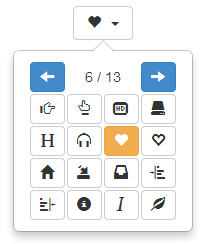
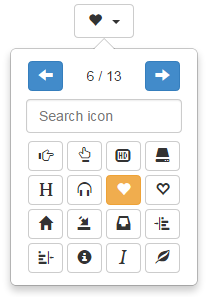
Add search field.

Changed region(s): [[0.0288, 0.0, 0.9519, 0.9754]]

diff --git a/bootstrap-iconpicker/js/bootstrap-iconpicker.min.js b/bootstrap-iconpicker/js/bootstrap-iconpicker.min.js
@@ -1,5 +1,5 @@
 /* ========================================================================
- * Bootstrap: bootstrap-iconpicker.js v1.4.0 by @recktoner
+ * Bootstrap: bootstrap-iconpicker.js v1.5.0 by @recktoner
  * https://victor-valencia.github.com/bootstrap-iconpicker
  * ========================================================================
  * Copyright 2013-2014 Victor Valencia Rico.
@@ -16,4 +16,4 @@
  * See the License for the specific language governing permissions and
  * limitations under the License.
  * ======================================================================== */
-+function(e){"use strict";var t=function(n,r){this.$element=e(n);this.options=e.extend({},t.DEFAULTS,this.$element.data());this.options=e.extend({},this.options,r)};t.ICONSET={glyphicon:["adjust","align-center","align-justify","align-left","align-right","arrow-down","arrow-left","arrow-right","arrow-up","asterisk","backward","ban-circle","barcode","bell","bold","book","bookmark","briefcase","bullhorn","calendar","camera","certificate","check","chevron-down","chevron-left","chevron-right","chevron-up","circle-arrow-down","circle-arrow-left","circle-arrow-right","circle-arrow-up","cloud","cloud-download","cloud-upload","cog","collapse-down","collapse-up","comment","compressed","copyright-mark","credit-card","cutlery","dashboard","download","download-alt","earphone","edit","eject","envelope","euro","exclamation-sign","expand","export","eye-close","eye-open","facetime-video","fast-backward","fast-forward","file","film","filter","fire","flag","flash","floppy-disk","floppy-open","floppy-remove","floppy-save","floppy-saved","folder-close","folder-open","font","forward","fullscreen","gbp","gift","glass","globe","hand-down","hand-left","hand-right","hand-up","hd-video","hdd","header","headphones","heart","heart-empty","home","import","inbox","indent-left","indent-right","info-sign","italic","leaf","link","list","list-alt","lock","log-in","log-out","magnet","map-marker","minus","minus-sign","move","music","new-window","off","ok","ok-circle","ok-sign","open","paperclip","pause","pencil","phone","phone-alt","picture","plane","play","play-circle","plus","plus-sign","print","pushpin","qrcode","question-sign","random","record","refresh","registration-mark","remove","remove-circle","remove-sign","repeat","resize-full","resize-horizontal","resize-small","resize-vertical","retweet","road","save","saved","screenshot","sd-video","search","send","share","share-alt","shopping-cart","signal","sort","sort-by-alphabet","sort-by-alphabet-alt","sort-by-attributes","sort-by-attributes-alt","sort-by-order","sort-by-order-alt","sound-5-1","sound-6-1","sound-7-1","sound-dolby","sound-stereo","star","star-empty","stats","step-backward","step-forward","stop","subtitles","tag","tags","tasks","text-height","text-width","th","th-large","th-list","thumbs-down","thumbs-up","time","tint","tower","transfer","trash","tree-conifer","tree-deciduous","unchecked","upload","usd","user","volume-down","volume-off","volume-up","warning-sign","wrench","zoom-in","zoom-out"],fa:e.fontawesome||[]};t.DEFAULTS={iconset:"glyphicon",icon:"",rows:4,cols:4,placement:"bottom",arrowClass:"btn-primary",selectedClass:"btn-warning",unselectedClass:"btn-default"};t.prototype.createButtonBar=function(){var t=this.options;var n=e("<tr></tr>");for(var r=0;r<t.cols;r++){var i=e('<button class="btn '+t.arrowClass+'"><span class="glyphicon"></span></button>');var s=e('<td class="text-center"></td>');if(r==0||r==t.cols-1){i.val(r==0?-1:1);i.addClass(r==0?"btn-previous":"btn-next");i.find("span").addClass(r==0?"glyphicon-arrow-left":"glyphicon-arrow-right");s.append(i);n.append(s)}else if(n.find(".page-count").length==0){s.attr("colspan",t.cols-2).append('<span class="page-count"></span>');n.append(s)}}t.table.find("thead").append(n)};t.prototype.updateButtonBar=function(e){var t=this.options;var n=Math.ceil(t.icons.length/(t.cols*t.rows));t.table.find(".page-count").html(e+" / "+n);var r=t.table.find(".btn-previous");var i=t.table.find(".btn-next");e==1?r.addClass("disabled"):r.removeClass("disabled");e==n?i.addClass("disabled"):i.removeClass("disabled")};t.prototype.bindEvents=function(){var t=this.options;var n=this;t.table.find(".btn-previous, .btn-next").off("click").on("click",function(){var r=parseInt(e(this).val());n.changeList(t.page+r)});t.table.find(".btn-icon").off("click").on("click",function(){n.select(e(this).val());n.$element.popover("destroy")})};t.prototype.select=function(t){var n=this.options;var r=this.$element;n.selected=e.inArray(t.replace(n.iconClassFix,""),n.icons);if(n.selected==-1){n.selected=0;t=n.iconClassFix+n.icons[n.selected]}if(t!=""&&n.selected>=0){n.icon=t;r.find("input").val(t);r.find("i").attr("class","").addClass(n.iconClass).addClass(t);r.trigger({type:"change",icon:t});n.table.find("button."+n.selectedClass).removeClass(n.selectedClass)}};t.prototype.switchPage=function(t){var n=this.options;n.selected=e.inArray(t.replace(n.iconClassFix,""),n.icons);if(t!=""&&n.selected>=0){var r=Math.ceil((n.selected+1)/(n.cols*n.rows));this.changeList(r)}n.table.find("i."+t).parent().addClass(n.selectedClass)};t.prototype.changeList=function(t){var n=this.options;this.updateButtonBar(t);var r=n.table.find("tbody").empty();var i=(t-1)*n.rows*n.cols;for(var s=0;s<n.rows;s++){var o=e("<tr></tr>");for(var u=0;u<n.cols;u++){var a=i+s*n.cols+u;var f=e('<button class="btn '+n.unselectedClass+' btn-icon"></button>').hide();if(a<n.icons.length){var l=n.iconClassFix+n.icons[a];f=e('<button class="btn '+(n.icon==l?n.selectedClass:n.unselectedClass)+' btn-icon" value="'+l+'" title="'+l+'"><i class="'+n.iconClass+" "+l+'"></i></button>')}var c=e("<td></td>").append(f);o.append(c)}r.append(o)}n.page=t;this.bindEvents()};t.prototype.setIcon=function(e){this.select(e)};var n=e.fn.iconpicker;e.fn.iconpicker=function(n,r){return this.each(function(){var i=e(this);var s=i.data("bs.iconpicker");var o=typeof n=="object"&&n;if(!s)i.data("bs.iconpicker",s=new t(this,o));if(typeof n=="string")s[n](r);else{var u=s.options;var a=u.iconset=="fontawesome"?"fa":"glyphicon";u=e.extend(u,{icons:t.ICONSET[a],iconClass:a,iconClassFix:a+"-",page:1,selected:-1,table:e('<table class="table-icons"><thead></thead><tbody></tbody></table>')});var f=typeof i.attr("name")!="undefined"?'name="'+i.attr("name")+'"':"";i.empty().append("<i></i>").append('<input type="hidden" '+f+"></input>").append('<span class="caret"></span>');i.addClass("iconpicker");s.createButtonBar();s.changeList(1);i.on("click",function(e){e.preventDefault();i.popover({animation:false,trigger:"manual",html:true,content:s.options.table,container:"body",placement:s.options.placement}).on("shown.bs.popover",function(){s.switchPage(u.icon);s.bindEvents()});i.data("bs.popover").tip().addClass("iconpicker-popover");i.popover("show")});s.select(u.icon)}})};e.fn.iconpicker.Constructor=t;e.fn.iconpicker.noConflict=function(){e.fn.iconpicker=n;return this};e(document).on("click","body",function(t){e(".iconpicker").each(function(){if(!e(this).is(t.target)&&e(this).has(t.target).length===0&&e(".popover").has(t.target).length===0){e(this).popover("destroy")}})});e('button[role="iconpicker"]').iconpicker()}(window.jQuery)
++function(e){"use strict";var t=function(o,n){this.$element=e(o),this.options=e.extend({},t.DEFAULTS,this.$element.data()),this.options=e.extend({},this.options,n)};t.ICONSET={glyphicon:["adjust","align-center","align-justify","align-left","align-right","arrow-down","arrow-left","arrow-right","arrow-up","asterisk","backward","ban-circle","barcode","bell","bold","book","bookmark","briefcase","bullhorn","calendar","camera","certificate","check","chevron-down","chevron-left","chevron-right","chevron-up","circle-arrow-down","circle-arrow-left","circle-arrow-right","circle-arrow-up","cloud","cloud-download","cloud-upload","cog","collapse-down","collapse-up","comment","compressed","copyright-mark","credit-card","cutlery","dashboard","download","download-alt","earphone","edit","eject","envelope","euro","exclamation-sign","expand","export","eye-close","eye-open","facetime-video","fast-backward","fast-forward","file","film","filter","fire","flag","flash","floppy-disk","floppy-open","floppy-remove","floppy-save","floppy-saved","folder-close","folder-open","font","forward","fullscreen","gbp","gift","glass","globe","hand-down","hand-left","hand-right","hand-up","hd-video","hdd","header","headphones","heart","heart-empty","home","import","inbox","indent-left","indent-right","info-sign","italic","leaf","link","list","list-alt","lock","log-in","log-out","magnet","map-marker","minus","minus-sign","move","music","new-window","off","ok","ok-circle","ok-sign","open","paperclip","pause","pencil","phone","phone-alt","picture","plane","play","play-circle","plus","plus-sign","print","pushpin","qrcode","question-sign","random","record","refresh","registration-mark","remove","remove-circle","remove-sign","repeat","resize-full","resize-horizontal","resize-small","resize-vertical","retweet","road","save","saved","screenshot","sd-video","search","send","share","share-alt","shopping-cart","signal","sort","sort-by-alphabet","sort-by-alphabet-alt","sort-by-attributes","sort-by-attributes-alt","sort-by-order","sort-by-order-alt","sound-5-1","sound-6-1","sound-7-1","sound-dolby","sound-stereo","star","star-empty","stats","step-backward","step-forward","stop","subtitles","tag","tags","tasks","text-height","text-width","th","th-large","th-list","thumbs-down","thumbs-up","time","tint","tower","transfer","trash","tree-conifer","tree-deciduous","unchecked","upload","usd","user","volume-down","volume-off","volume-up","warning-sign","wrench","zoom-in","zoom-out"],fa:e.fontawesome||[]},t.DEFAULTS={iconset:"glyphicon",icon:"",rows:4,cols:4,placement:"bottom",arrowClass:"btn-primary",selectedClass:"btn-warning",unselectedClass:"btn-default",search:!0,searchText:"Search icon"},t.prototype.createButtonBar=function(){for(var t=this.options,o=e("<tr></tr>"),n=0;n<t.cols;n++){var a=e('<button class="btn '+t.arrowClass+'"><span class="glyphicon"></span></button>'),s=e('<td class="text-center"></td>');0==n||n==t.cols-1?(a.val(0==n?-1:1),a.addClass(0==n?"btn-previous":"btn-next"),a.find("span").addClass(0==n?"glyphicon-arrow-left":"glyphicon-arrow-right"),s.append(a),o.append(s)):0==o.find(".page-count").length&&(s.attr("colspan",t.cols-2).append('<span class="page-count"></span>'),o.append(s))}if(t.table.find("thead").append(o),1==t.search){var i=["<tr>",'   <td colspan="'+t.cols+'">','       <input type="text" class="form-control search-control" style="width: '+39*t.cols+'px;" placeholder="'+t.searchText+'">',"   </td>","</tr>"];t.table.find("thead").append(i.join(""))}},t.prototype.updateButtonBar=function(e){var t=this.options,o=Math.ceil(t.icons.length/(t.cols*t.rows));t.table.find(".page-count").html((0==o?0:e)+" / "+o);var n=t.table.find(".btn-previous"),a=t.table.find(".btn-next");1==e?n.addClass("disabled"):n.removeClass("disabled"),e==o||0==o?a.addClass("disabled"):a.removeClass("disabled")},t.prototype.bindEvents=function(){var t=this.options,o=this;t.table.find(".btn-previous, .btn-next").off("click").on("click",function(){var n=parseInt(e(this).val());o.changeList(t.page+n)}),t.table.find(".btn-icon").off("click").on("click",function(){o.select(e(this).val()),o.$element.popover("destroy")}),t.table.find(".search-control").off("keyup").on("keyup",function(){o.changeList(1)})},t.prototype.select=function(t){var o=this.options,n=this.$element;o.selected=e.inArray(t.replace(o.iconClassFix,""),o.icons),-1==o.selected&&(o.selected=0,t=o.iconClassFix+o.icons[o.selected]),""!=t&&o.selected>=0&&(o.icon=t,n.find("input").val(t),n.find("i").attr("class","").addClass(o.iconClass).addClass(t),n.trigger({type:"change",icon:t}),o.table.find("button."+o.selectedClass).removeClass(o.selectedClass))},t.prototype.switchPage=function(t){var o=this.options;if(o.selected=e.inArray(t.replace(o.iconClassFix,""),o.icons),""!=t&&o.selected>=0){var n=Math.ceil((o.selected+1)/(o.cols*o.rows));this.changeList(n)}o.table.find("i."+t).parent().addClass(o.selectedClass)},t.prototype.changeList=function(o){var n=this.options,a="";if(1==n.search)if(a=n.table.find(".search-control").val(),""==a)n.icons=t.ICONSET[n.ic];else{var s=[];e.each(t.ICONSET[n.ic],function(e,t){t.indexOf(a)>-1&&s.push(t)}),n.icons=s}this.updateButtonBar(o);for(var i=n.table.find("tbody").empty(),r=(o-1)*n.rows*n.cols,c=0;c<n.rows;c++){for(var l=e("<tr></tr>"),p=0;p<n.cols;p++){var d=r+c*n.cols+p,h=e('<button class="btn '+n.unselectedClass+' btn-icon"></button>').hide();if(d<n.icons.length){var f=n.iconClassFix+n.icons[d];h=e('<button class="btn '+(n.icon==f?n.selectedClass:n.unselectedClass)+' btn-icon" value="'+f+'" title="'+f+'"><i class="'+n.iconClass+" "+f+'"></i></button>')}var u=e("<td></td>").append(h);l.append(u)}i.append(l)}n.page=o,this.bindEvents()},t.prototype.setIcon=function(e){this.select(e)};var o=e.fn.iconpicker;e.fn.iconpicker=function(o,n){return this.each(function(){var a=e(this),s=a.data("bs.iconpicker"),i="object"==typeof o&&o;if(s||a.data("bs.iconpicker",s=new t(this,i)),"string"==typeof o)s[o](n);else{var r=s.options,c="fontawesome"==r.iconset?"fa":"glyphicon";r=e.extend(r,{ic:c,icons:t.ICONSET[c],iconClass:c,iconClassFix:c+"-",page:1,selected:-1,table:e('<table class="table-icons"><thead></thead><tbody></tbody></table>')});var l="undefined"!=typeof a.attr("name")?'name="'+a.attr("name")+'"':"";a.empty().append("<i></i>").append('<input type="hidden" '+l+"></input>").append('<span class="caret"></span>'),a.addClass("iconpicker"),s.createButtonBar(),s.changeList(1),a.on("click",function(e){e.preventDefault(),a.popover({animation:!1,trigger:"manual",html:!0,content:s.options.table,container:"body",placement:s.options.placement}).on("shown.bs.popover",function(){s.switchPage(r.icon),s.bindEvents()}),a.data("bs.popover").tip().addClass("iconpicker-popover"),a.popover("show")}),s.select(r.icon)}})},e.fn.iconpicker.Constructor=t,e.fn.iconpicker.noConflict=function(){return e.fn.iconpicker=o,this},e(document).on("click","body",function(t){e(".iconpicker").each(function(){e(this).is(t.target)||0!==e(this).has(t.target).length||0!==e(".popover").has(t.target).length||e(this).popover("destroy")})}),e('button[role="iconpicker"]').iconpicker()}(window.jQuery);

diff --git a/bootstrap-iconpicker/js/bootstrap-iconpicker.js b/bootstrap-iconpicker/js/bootstrap-iconpicker.js
@@ -1,5 +1,5 @@
 /* ========================================================================
- * Bootstrap: bootstrap-iconpicker.js v1.4.0 by @recktoner
+ * Bootstrap: bootstrap-iconpicker.js v1.5.0 by @recktoner
  * https://victor-valencia.github.com/bootstrap-iconpicker
  * ========================================================================
  * Copyright 2013-2014 Victor Valencia Rico.
@@ -243,7 +243,9 @@
         placement: 'bottom',
         arrowClass: 'btn-primary',
         selectedClass: 'btn-warning',        
-        unselectedClass: 'btn-default'
+        unselectedClass: 'btn-default',
+        search: true,
+        searchText: 'Search icon'
     };
 
     Iconpicker.prototype.createButtonBar = function(){
@@ -265,16 +267,26 @@
             }
         }
         op.table.find('thead').append(tr);
+        if(op.search == true){
+            var search = [
+                '<tr>',
+                '   <td colspan="' + op.cols + '">',
+                '       <input type="text" class="form-control search-control" style="width: ' + op.cols * 39 + 'px;" placeholder="' + op.searchText + '">',
+                '   </td>',
+                '</tr>'
+            ];            
+            op.table.find('thead').append(search.join(''));
+        }
     };
 
     Iconpicker.prototype.updateButtonBar = function(page){
         var op = this.options;
         var total_pages = Math.ceil( op.icons.length / (op.cols * op.rows) );
-        op.table.find('.page-count').html(page + ' / ' + total_pages);
+        op.table.find('.page-count').html(((total_pages == 0 ) ? 0: page) + ' / ' + total_pages);
         var btn_prev = op.table.find('.btn-previous');
         var btn_next = op.table.find('.btn-next');
         (page == 1) ? btn_prev.addClass('disabled'): btn_prev.removeClass('disabled');
-        (page == total_pages) ? btn_next.addClass('disabled'): btn_next.removeClass('disabled');
+        (page == total_pages || total_pages == 0) ? btn_next.addClass('disabled'): btn_next.removeClass('disabled');
     };
 
     Iconpicker.prototype.bindEvents = function(){
@@ -287,6 +299,9 @@
         op.table.find('.btn-icon').off('click').on('click', function(){
             el.select($(this).val());
             el.$element.popover('destroy');
+        });
+        op.table.find('.search-control').off('keyup').on('keyup', function(e){
+            el.changeList(1);
         });
     };
 
@@ -319,6 +334,22 @@
 
     Iconpicker.prototype.changeList = function(page){
         var op = this.options;
+        var search = "";
+        if(op.search == true){
+            search = op.table.find('.search-control').val();
+            if(search == ""){
+                op.icons = Iconpicker.ICONSET[op.ic];
+            }
+            else{
+                var result = [];
+                $.each(Iconpicker.ICONSET[op.ic], function(i, v){
+                   if(v.indexOf(search) > -1){
+                       result.push(v);
+                   } 
+                });
+                op.icons = result;
+            }   
+        }
         this.updateButtonBar(page);
         var tbody = op.table.find('tbody').empty();
         var offset = (page - 1) * op.rows * op.cols;
@@ -358,6 +389,7 @@
                 var op = data.options;
                 var ic = (op.iconset == 'fontawesome') ? 'fa' : 'glyphicon';
                 op = $.extend(op, {
+                    ic: ic,
                     icons: Iconpicker.ICONSET[ic],
                     iconClass: ic,
                     iconClassFix: ic + '-',
@@ -371,7 +403,7 @@
                     .append('<input type="hidden" ' + name + '></input>')
                     .append('<span class="caret"></span>');
                 $this.addClass('iconpicker');
-                data.createButtonBar();
+                data.createButtonBar();                
                 data.changeList(1);
                 $this.on('click', function(e){
                     e.preventDefault();

diff --git a/index.html b/index.html
@@ -37,8 +37,8 @@ and open the template in the editor.
             <div class="row text-center" style="padding-top: 20px;">
                <div class="col-md-12">
                     <div class="btn-group buttons-menu-container">
-                        <a class="btn btn-primary" href="https://github.com/victor-valencia/bootstrap-iconpicker/archive/v1.4.0.zip" role="button">
-                            <i class=" fa fa-download"></i> Download Project (v1.4.0)
+                        <a class="btn btn-primary" href="https://github.com/victor-valencia/bootstrap-iconpicker/archive/v1.5.0.zip" role="button">
+                            <i class=" fa fa-download"></i> Download Project (v1.5.0)
                         </a>
                         <a id="btnDonate" class="btn btn-warning" href="#" target="_blank" role="button">
                             <i class=" fa fa-heart"></i> PayPal Donate
@@ -256,6 +256,23 @@ and open the template in the editor.
                 </pre>
             </div>
             
+            <h4>Search Icon</h4>
+            <p>Add <code>data-search="true|false"</code> to indicate the search icon, <code>data-search-text=""</code> to inidicate search text.</p>
+            <div class="bs-example" style="padding-bottom: 24px;">
+                <div class="row text-center">
+                    <div class="col-md-12">
+                        <p><code>data-search="true"</code> <code>data-search-text="Search..."</code></p>
+                        <button class="btn btn-default" data-cols="4" data-icon="glyphicon-search" data-search="true" data-search-text="Search..." role="iconpicker"></button>
+                    </div>
+                </div>                
+            </div>
+            <div class="highlight">
+                <pre>
+                    <code class="html"><span class="nt">&lt;button</span> <span class="na">class=</span><span class="s">"btn btn-default"</span> <span class="na">data-search=</span><span class="s">"true"</span> <span class="na">data-search-text=</span><span class="s">"Search..."</span><span class="nt">&gt;</span><span class="nt">&lt;/button&gt;</span>
+                    </code>
+                </pre>
+            </div>
+            
             <h4>Button addons</h4>
             <p>You can include it in a <code>class="input-group"</code></p>
             <div class="bs-example" style="padding-bottom: 24px;">
@@ -311,6 +328,8 @@ and open the template in the editor.
     <span class="na">arrowClass: </span><span class="s">'btn-danger'</span>,
     <span class="na">selectedClass: </span><span class="s">'btn-success'</span>,
     <span class="na">unselectedClass: </span><span class="s">''</span>
+    <span class="na">search: </span><span class="s">true</span>
+    <span class="na">searchText: </span><span class="s">'Search'</span>
 <span class="nt">});</span>
 
 <span class="nt">$(</span><span class="s">'#convert'</span><span class="nt">).on(<span class="s">'change'</span>, function(e) {</span> 
@@ -418,7 +437,9 @@ and open the template in the editor.
                         placement: 'top',
                         arrowClass: 'btn-danger',
                         selectedClass: 'btn-success',
-                        unselectedClass: ''
+                        unselectedClass: '',
+                        search: true,
+                        searchText: 'Search'
                     });                    
                 }); 
                 $('#convert').on('change', function(e) {

diff --git a/bootstrap-iconpicker/css/bootstrap-iconpicker.min.css b/bootstrap-iconpicker/css/bootstrap-iconpicker.min.css
@@ -1,9 +1,10 @@
 /*!
- * Bootstrap-iconpicker v1.4.0
+ * Bootstrap-iconpicker v1.5.0
  *
  * Copyright 2013-2014 Victor Valencia Rico.
  * Licensed under the Apache License v2.0
  * http://www.apache.org/licenses/LICENSE-2.0
  *
  * Designed and built with all the love in the world by @recktoner.
- */.iconpicker .caret{margin-left:10px!important}.iconpicker{min-width:60px}.table-icons .btn{min-height:30px;min-width:35px;text-align:center;padding:0;margin:2px}.popover{max-width:inherit!important}.iconpicker-popover{z-index:1050!important}
+ */
+.iconpicker .caret{margin-left:10px!important}.iconpicker{min-width:60px}.table-icons .btn{min-height:30px;min-width:35px;text-align:center;padding:0;margin:2px}.table-icons td{min-width:39px}.popover{max-width:inherit!important}.iconpicker-popover{z-index:1050!important}.iconpicker-popover .search-control{margin-bottom:6px;margin-top:6px}

diff --git a/bootstrap-iconpicker/css/bootstrap-iconpicker.css b/bootstrap-iconpicker/css/bootstrap-iconpicker.css
@@ -1,5 +1,5 @@
 /*!
- * Bootstrap-iconpicker v1.4.0
+ * Bootstrap-iconpicker v1.5.0
  *
  * Copyright 2013-2014 Victor Valencia Rico.
  * Licensed under the Apache License v2.0
@@ -24,10 +24,19 @@
     margin: 2px;
 }
 
+.table-icons td{    
+    min-width: 39px;
+}
+
 .popover {
     max-width: inherit !important;
 }
 
 .iconpicker-popover {
   z-index: 1050 !important;
+}
+
+.iconpicker-popover .search-control {
+    margin-bottom: 6px; 
+    margin-top: 6px;
 }

diff --git a/README.md b/README.md
@@ -1,4 +1,4 @@
-# [Bootstrap-Iconpicker v1.4.0](http://victor-valencia.github.io/bootstrap-iconpicker)
+# [Bootstrap-Iconpicker v1.5.0](http://victor-valencia.github.io/bootstrap-iconpicker)
 ![Iconpicker](bootstrap-iconpicker.png)
 
 A simple iconpicker for Bootstrap 3.
@@ -18,7 +18,7 @@ Please note that this project is for <a href="http://getbootstrap.com/"><strong>
 
 Three quick start options are available:
 
-- [Download the latest release](https://github.com/victor-valencia/bootstrap-iconpicker/archive/v1.4.0.zip).
+- [Download the latest release](https://github.com/victor-valencia/bootstrap-iconpicker/archive/v1.5.0.zip).
 - Clone the repo: `git clone https://github.com/victor-valencia/bootstrap-iconpicker.git`.
 - Install with [Bower](http://bower.io): `bower install bootstrap-iconpicker`.
 
@@ -56,6 +56,7 @@ See documentation and live examples here: <a href="http://victor-valencia.github
 - v1.3.0 - Support multiple versions of FontAwesome. @[victor-valencia](https://github.com/victor-valencia)
 - v1.3.1 - Bind body 'click' to solve issues for ajax loaded pages. @[crlcu](https://github.com/crlcu)
 - v1.4.0 - Support for customization of the component. @[victor-valencia](https://github.com/victor-valencia)
+- v1.5.0 - Add search field. @[victor-valencia](https://github.com/victor-valencia)
 
 ## Versioning
 For transparency into our release cycle and in striving to maintain backward compatibility, Bootstrap is maintained under [the Semantic Versioning guidelines](http://semver.org/). Sometimes we screw up, but we'll adhere to those rules whenever possible.
